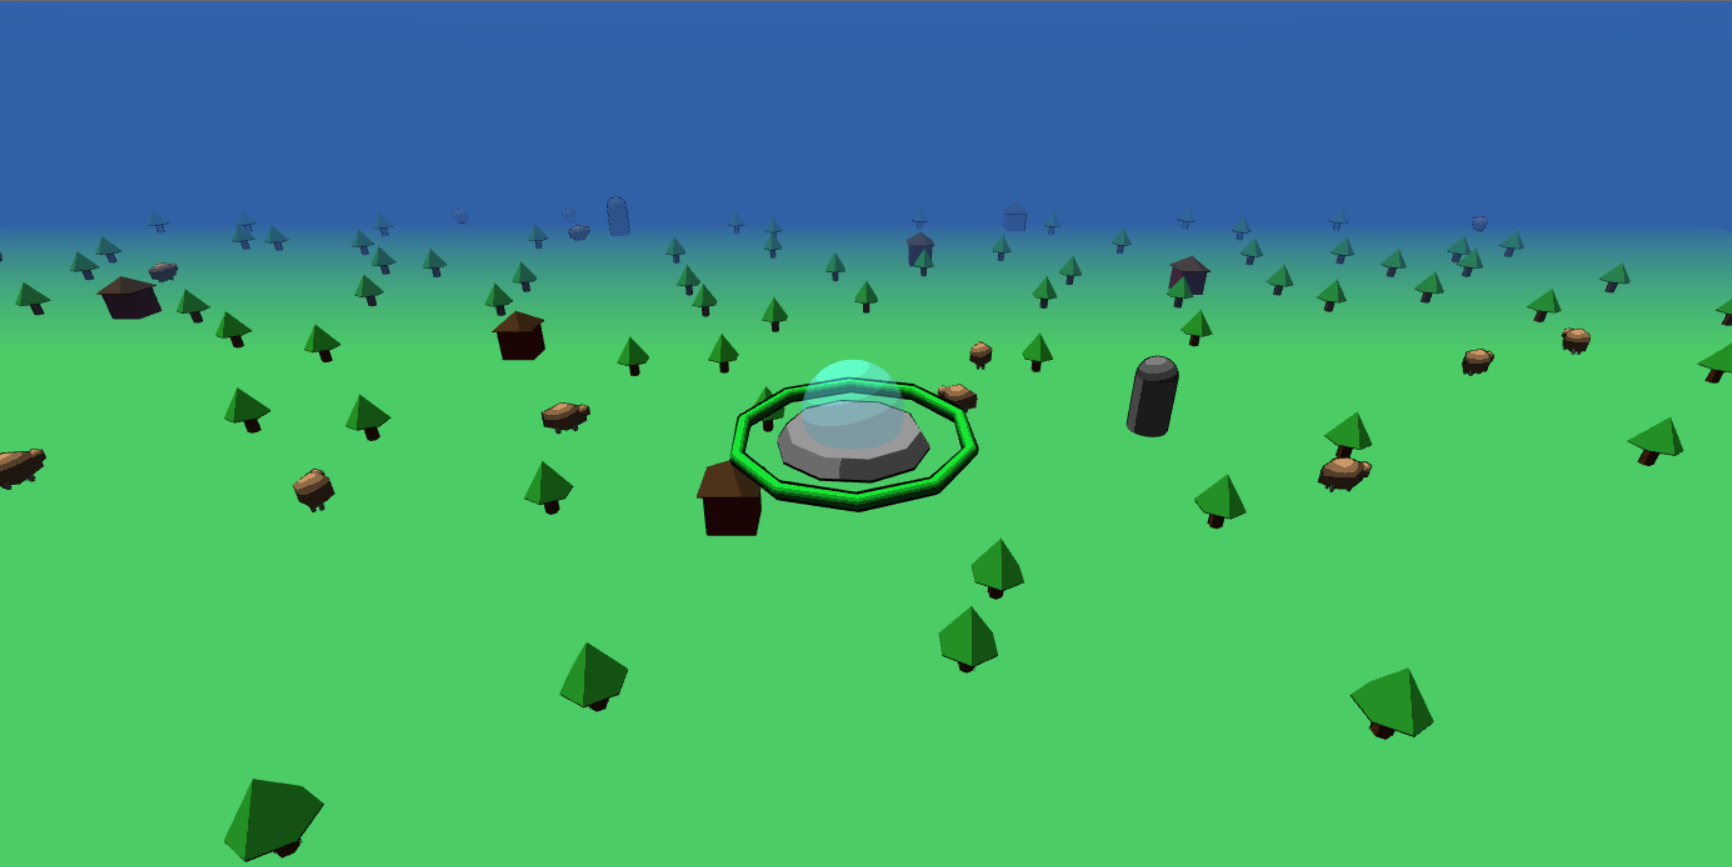
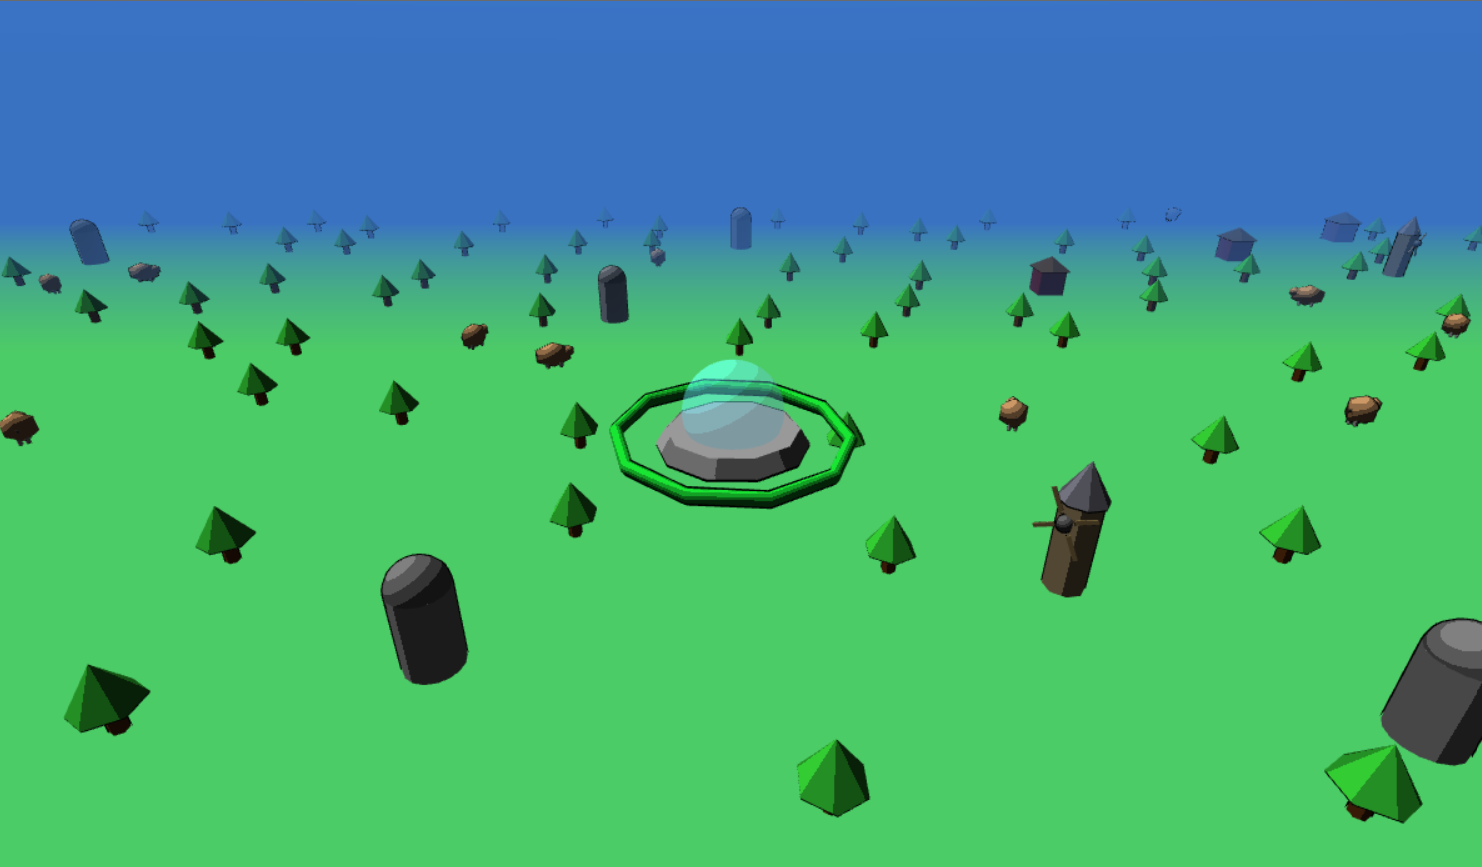
docs : att readme feat : moinho adicionado

diff --git a/main.js b/main.js
@@ -210,15 +210,15 @@ function desenharVaca(viewProjectionMatrix, posX, posZ) {
     // Corpo
     let matrizBase = m4.translation([posX, 1.5, posZ]);
     matrizBase = m4.rotateY(matrizBase, (pseudoRandom(posX, posZ)*Math.PI));
-
+    
     let matrizCorpo = m4.translate(matrizBase, [0, 1.5, 0]);
     matrizCorpo = m4.scale(matrizCorpo, [1.5, 1, 1]);
     desenharComOutline(corpoVacaBuffer, matrizCorpo, viewProjectionMatrix, [0.8, 0.6, 0.4, 1]); // marrom claro
-
+    
     // Cabeça
     let matrizCabeca = m4.translate(matrizBase, [1.8, 1.8, 0]);
     desenharComOutline(cabecaVacaBuffer, matrizCabeca, viewProjectionMatrix, [0.8, 0.6, 0.4, 1]);
-
+    
     // 4 Patas
     const offsetsPatas = [
         [0.8,  0.3],  // frente direita
@@ -230,11 +230,46 @@ function desenharVaca(viewProjectionMatrix, posX, posZ) {
         let matrizPata = m4.translate(matrizBase, [ox, 0.5, oz]);
         desenharComOutline(pataVacaBuffer, matrizPata, viewProjectionMatrix, [0.9, 0.9, 0.9, 1]);
     }
-
+    
     // Rabo
     let matrizRabo = m4.translate(matrizBase, [-1.8, 1.5, 0]);
     matrizRabo = m4.rotateZ(matrizRabo, 0.5);
     desenharComOutline(raboPataBuffer, matrizRabo, viewProjectionMatrix, [0.3, 0.3, 0.3, 1]); // cinza escuro
+}
+
+// --- MOINHO ---
+const torreMoinhoBuffer = primitives.createCylinderBufferInfo(gl, 1, 5, 8, 1);
+const tetoMoinhoBuffer = primitives.createTruncatedConeBufferInfo(gl, 1.2, 0, 2, 8, 1);
+const centroPasBuffer = primitives.createSphereBufferInfo(gl, 0.4, 6, 6);
+const paBuffer = primitives.createCubeBufferInfo(gl, 1);
+
+function desenharMoinho(viewProjectionMatrix, posX, posZ, time) {
+    let matrizBase = m4.translation([posX, 0, posZ]);
+    let anguloBase = pseudoRandom(posX, posZ) * Math.PI * 2;
+    matrizBase = m4.rotateY(matrizBase, anguloBase);
+    matrizBase = m4.scale(matrizBase, [1.5, 1.5, 1.5]);
+
+    // Torre
+    let matrizTorre = m4.translate(matrizBase, [0, 2.5, 0]);
+    desenharComOutline(torreMoinhoBuffer, matrizTorre, viewProjectionMatrix, [0.8, 0.7, 0.5, 1]);
+
+    // Teto
+    let matrizTeto = m4.translate(matrizBase, [0, 6, 0]);
+    desenharComOutline(tetoMoinhoBuffer, matrizTeto, viewProjectionMatrix, [0.45, 0.45, 0.50, 1]);
+
+    // Centro das pás
+    let matrizCentro = m4.translate(matrizBase, [0, 4, 1.1]);
+    desenharComOutline(centroPasBuffer, matrizCentro, viewProjectionMatrix, [0.4, 0.4, 0.4, 1]);
+
+    // 4 Pás girando
+    const angulosPas = [0, Math.PI/2, Math.PI, Math.PI * 1.5];
+    for (let angulo of angulosPas) {
+        let matrizPa = m4.translate(matrizBase, [0, 4, 1.1]);
+        matrizPa = m4.rotateZ(matrizPa, angulo + time * 1.5); // gira com o tempo
+        matrizPa = m4.translate(matrizPa, [0, 1.2, 0]);
+        matrizPa = m4.scale(matrizPa, [0.2, 1.2, 0.1]);
+        desenharComOutline(paBuffer, matrizPa, viewProjectionMatrix, [0.6, 0.5, 0.3, 1]);
+    }
 }
 
 // --- SKYBOX ---
@@ -253,12 +288,12 @@ const objetosFazenda = [];
 for(let l = 0; l < linhas; l++){
     for(let c = 0; c < colunas; c++){
         let obj = {coluna : c, linha : l};
-        atualizarObjetoFazena(obj);
+        atualizarObjetoFazenda(obj);
         objetosFazenda.push(obj);
     }
 }
 
-function atualizarObjetoFazena(obj){
+function atualizarObjetoFazenda(obj){
 
     let desvioX = (pseudoRandom(obj.coluna, obj.linha) - 0.5) * 16;
     let desvioZ = (pseudoRandom(obj.coluna + 73, obj.linha + 42) - 0.5) * 16;
@@ -269,6 +304,7 @@ function atualizarObjetoFazena(obj){
     if (chance > 0.97) obj.tipo = 'silo';
     else if (chance > 0.93) obj.tipo = 'celeiro';
     else if (chance > 0.80) obj.tipo = 'vaca';
+    else if (chance > 0.78) obj.tipo = 'moinho';
     else obj.tipo = 'arvore';
 }
 
@@ -298,6 +334,7 @@ const globalUniforms = {
     u_iluminacaoAtiva : 1.0,
     u_fogAtiva : 1.0,
     u_corFog: [0.7, 0.8, 0.9],
+    u_luzIntensidade: 1.0,
 };
 
 //Tempo do dia entre 0 e 1
@@ -510,19 +547,19 @@ function render(time) {
         let obj = objetosFazenda[i];
         if (obj.z > posNaveZ + metadeZ){
             obj.linha += linhas;
-            atualizarObjetoFazena(obj);
+            atualizarObjetoFazenda(obj);
         }
         else if (obj.z < posNaveZ - metadeZ){
             obj.linha -= linhas;
-            atualizarObjetoFazena(obj);
+            atualizarObjetoFazenda(obj);
         }
         if(obj.x < posNaveX - metadeX){
             obj.coluna += colunas;
-            atualizarObjetoFazena(obj);
+            atualizarObjetoFazenda(obj);
         }
         else if (obj.x > posNaveX + metadeX){
             obj.coluna -= colunas;
-            atualizarObjetoFazena(obj);
+            atualizarObjetoFazenda(obj);
         }
         if (obj.tipo == 'arvore'){
             desenharArvore(viewProjection, obj.x, obj.z);
@@ -535,6 +572,9 @@ function render(time) {
         }
         else if (obj.tipo == 'vaca'){
             desenharVaca(viewProjection, obj.x, obj.z);
+        }
+        else if (obj.tipo == 'moinho'){
+            desenharMoinho(viewProjection, obj.x, obj.z, time);
         }
     }
 

diff --git a/README.md b/README.md
@@ -29,7 +29,7 @@ Um OVNI sobrevoando uma fazenda low-poly, desenvolvido com WebGL e TWGL.js.
 
 ## Itens Obrigatórios Implementados
 
-- Plano com cenário contendo árvores, silos, celeiros e vacas distribuídos harmonicamente
+- Plano com cenário contendo 5 tipos de objetos distribuídos harmonicamente: árvores, silos, celeiros, vacas e moinhos
 - Objeto central (OVNI) com modelagem hierárquica composta por:
   - Corpo/chassi (cone truncado)
   - Cabine com vidro semitransparente
@@ -46,7 +46,6 @@ Um OVNI sobrevoando uma fazenda low-poly, desenvolvido com WebGL e TWGL.js.
 - **Skybox (10%):** esfera com gradiente de cor envolvendo toda a cena, sincronizada com o ciclo dia/noite
 - **Neblina/Fog (4%):** efeito de névoa ativável pela tecla N, com cor sincronizada ao ciclo dia/noite
 - **Cabine com vidro semitransparente (4%):** a cúpula do OVNI é renderizada com transparência
-- **Mais tipos de objetos (8%):** 4 tipos de objetos no cenário — árvores, silos, celeiros e vacas
-- **Raio de abdução:** cone transparente com efeito de luz no chão ativado pela barra de espaço
+- **Mais tipos de objetos (4%):** 5 tipos (3 obrigatórios e 2 adicionais) de objetos no cenário — árvores, silos, celeiros , vacas e moinhos
 - **Música de fundo (3%):** trilha sonora em loop
-- **Distribuição harmônica dos objetos:** sistema procedural de geração infinita de objetos conforme o OVNI se move
+- **Raio de abdução:** cone transparente com efeito de luz no chão ativado pela barra de espaço
